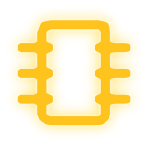
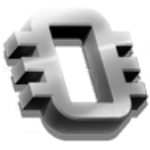
updated assets and added OpenCollective to donations

diff --git a/src/pages/donation/donationPresenter.tsx b/src/pages/donation/donationPresenter.tsx
@@ -16,6 +16,7 @@ export const DonationPresenter: React.FC = () => {
     paymentOptions.push({ title: i18next.t(LocaleKey.paypal).toString(), event: AnalyticsEvent.externalLinkPayPal, url: ExternalUrls.payPal, image: '/assets/images/payPal.png' });
     paymentOptions.push({ title: i18next.t(LocaleKey.kofi).toString(), event: AnalyticsEvent.externalLinkkofi, url: ExternalUrls.kofi, image: '/assets/images/kofi.png' });
     paymentOptions.push({ title: 'Brave', event: AnalyticsEvent.externalLinkBat, url: ExternalUrls.bat, image: '/assets/images/bat.png' });
+    paymentOptions.push({ title: i18next.t(LocaleKey.openCollective), event: AnalyticsEvent.externalLinkOpenCollective, url: ExternalUrls.openCollective, image: '/assets/images/openCollective.png' });
 
     const title = i18next.t(LocaleKey.donation);
     setDocumentTitle(title);

diff --git a/src/localization/LocaleKey.ts b/src/localization/LocaleKey.ts
@@ -215,4 +215,13 @@ export enum LocaleKey {
   inventoryRestored = 'inventoryRestored',
   backupInventory = 'backupInventory',
   restoreInventory = 'restoreInventory',
+  favourites = 'favourites',
+  openCollective = 'openCollective',
+  repairedUsing = 'repairedUsing',
+  timers = 'timers',
+  newTimer = 'newTimer',
+  renameTimer = 'renameTimer',
+  startDate = 'startDate',
+  endDate = 'endDate',
+  errorStartDateShouldNotBeAfterEndDate = 'errorStartDateShouldNotBeAfterEndDate',
 }

diff --git a/src/constants/ExternalUrls.ts b/src/constants/ExternalUrls.ts
@@ -17,4 +17,5 @@ export class ExternalUrls {
   static twitter = 'https://twitter.com/AssistantNMS';
   static defaultProfilePic = 'https://nmsassistant.com/assets/img/vykeen.png';
   static bat = 'https://brave.com/nms136';
+  static openCollective = 'https://opencollective.com/assistantnms';
 }

diff --git a/src/constants/AnalyticsEvent.ts b/src/constants/AnalyticsEvent.ts
@@ -66,4 +66,5 @@ export class AnalyticsEvent {
   static externalLinkGitHubGeneral = 'Go_to_General_Repository';
   static externalLinkGitHubLanguage = 'Go_to_Language_Repository';
   static externalLinkBat = 'BraveRewards';
+  static externalLinkOpenCollective = 'OpenCollective';
 }
